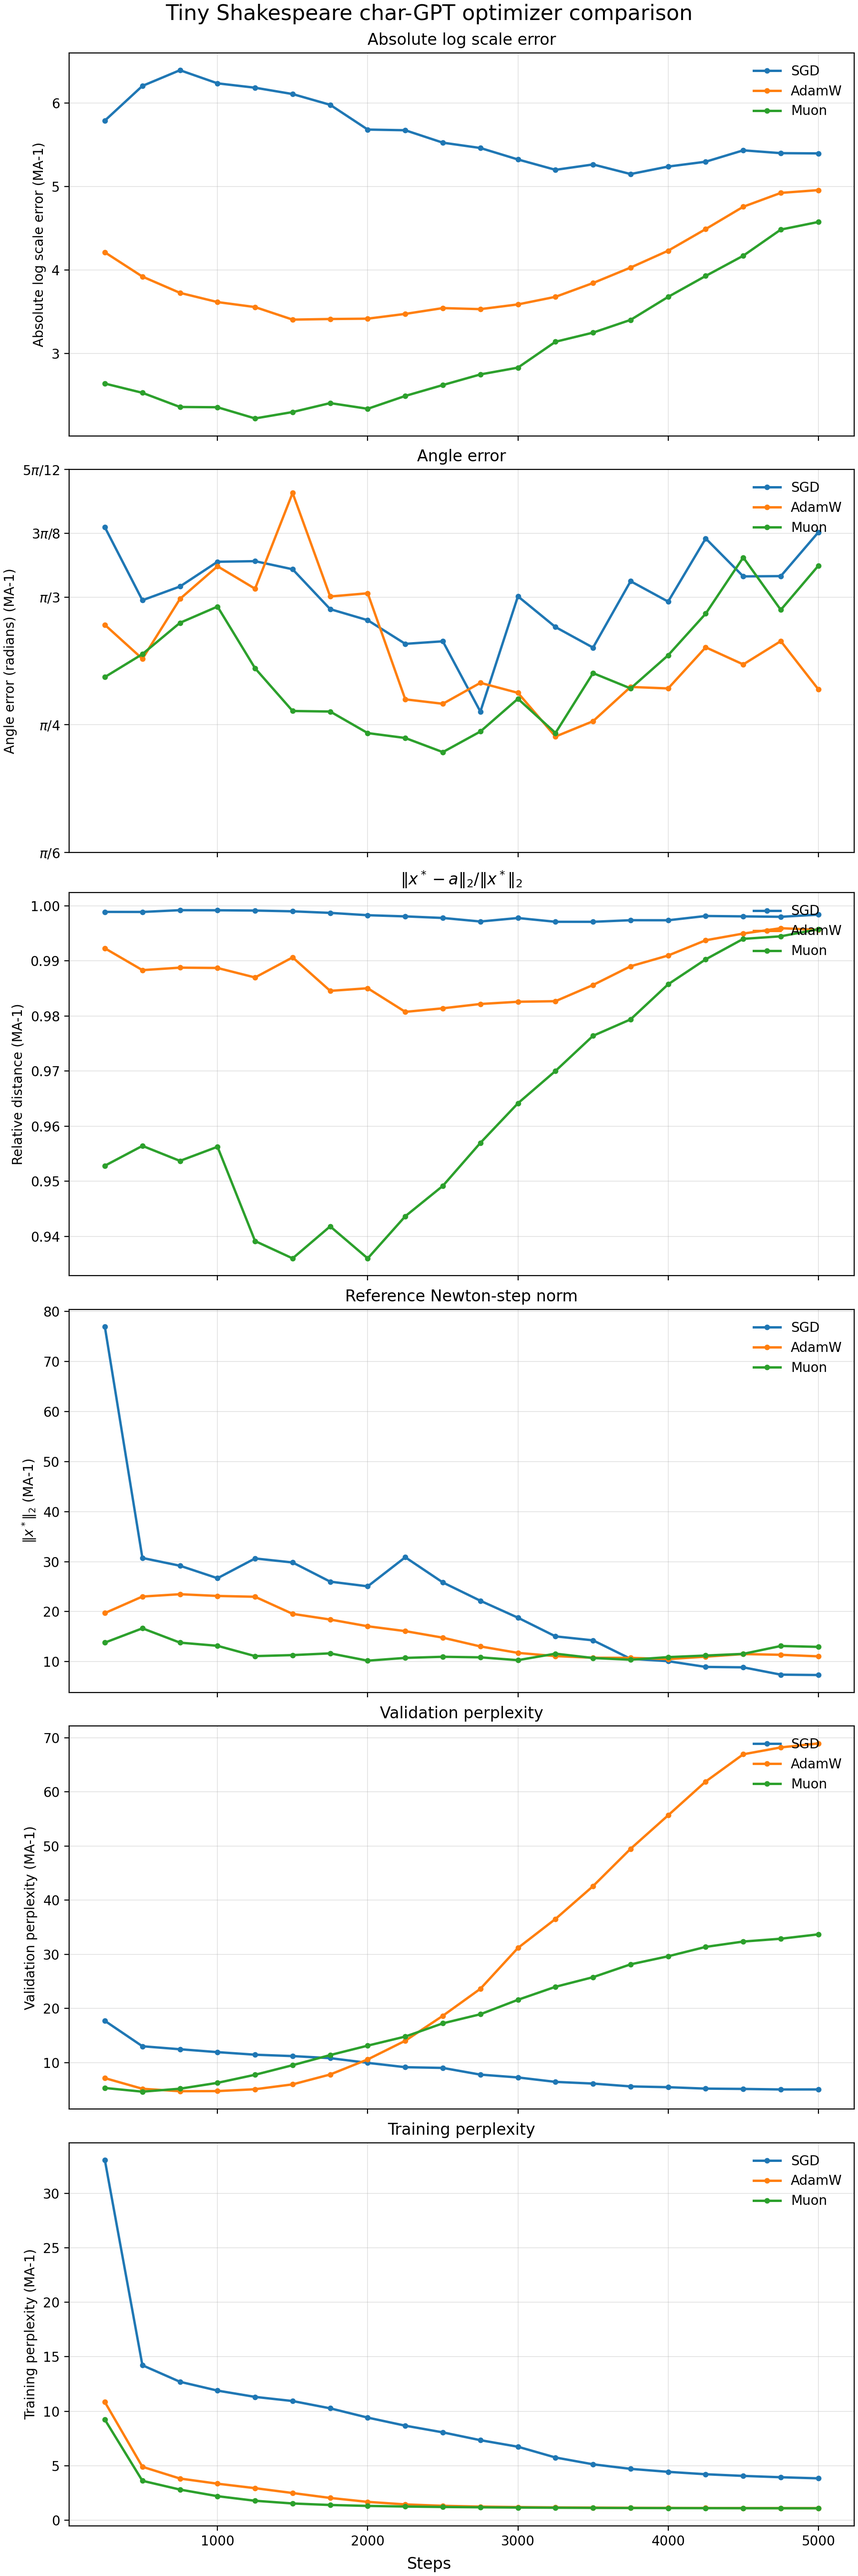
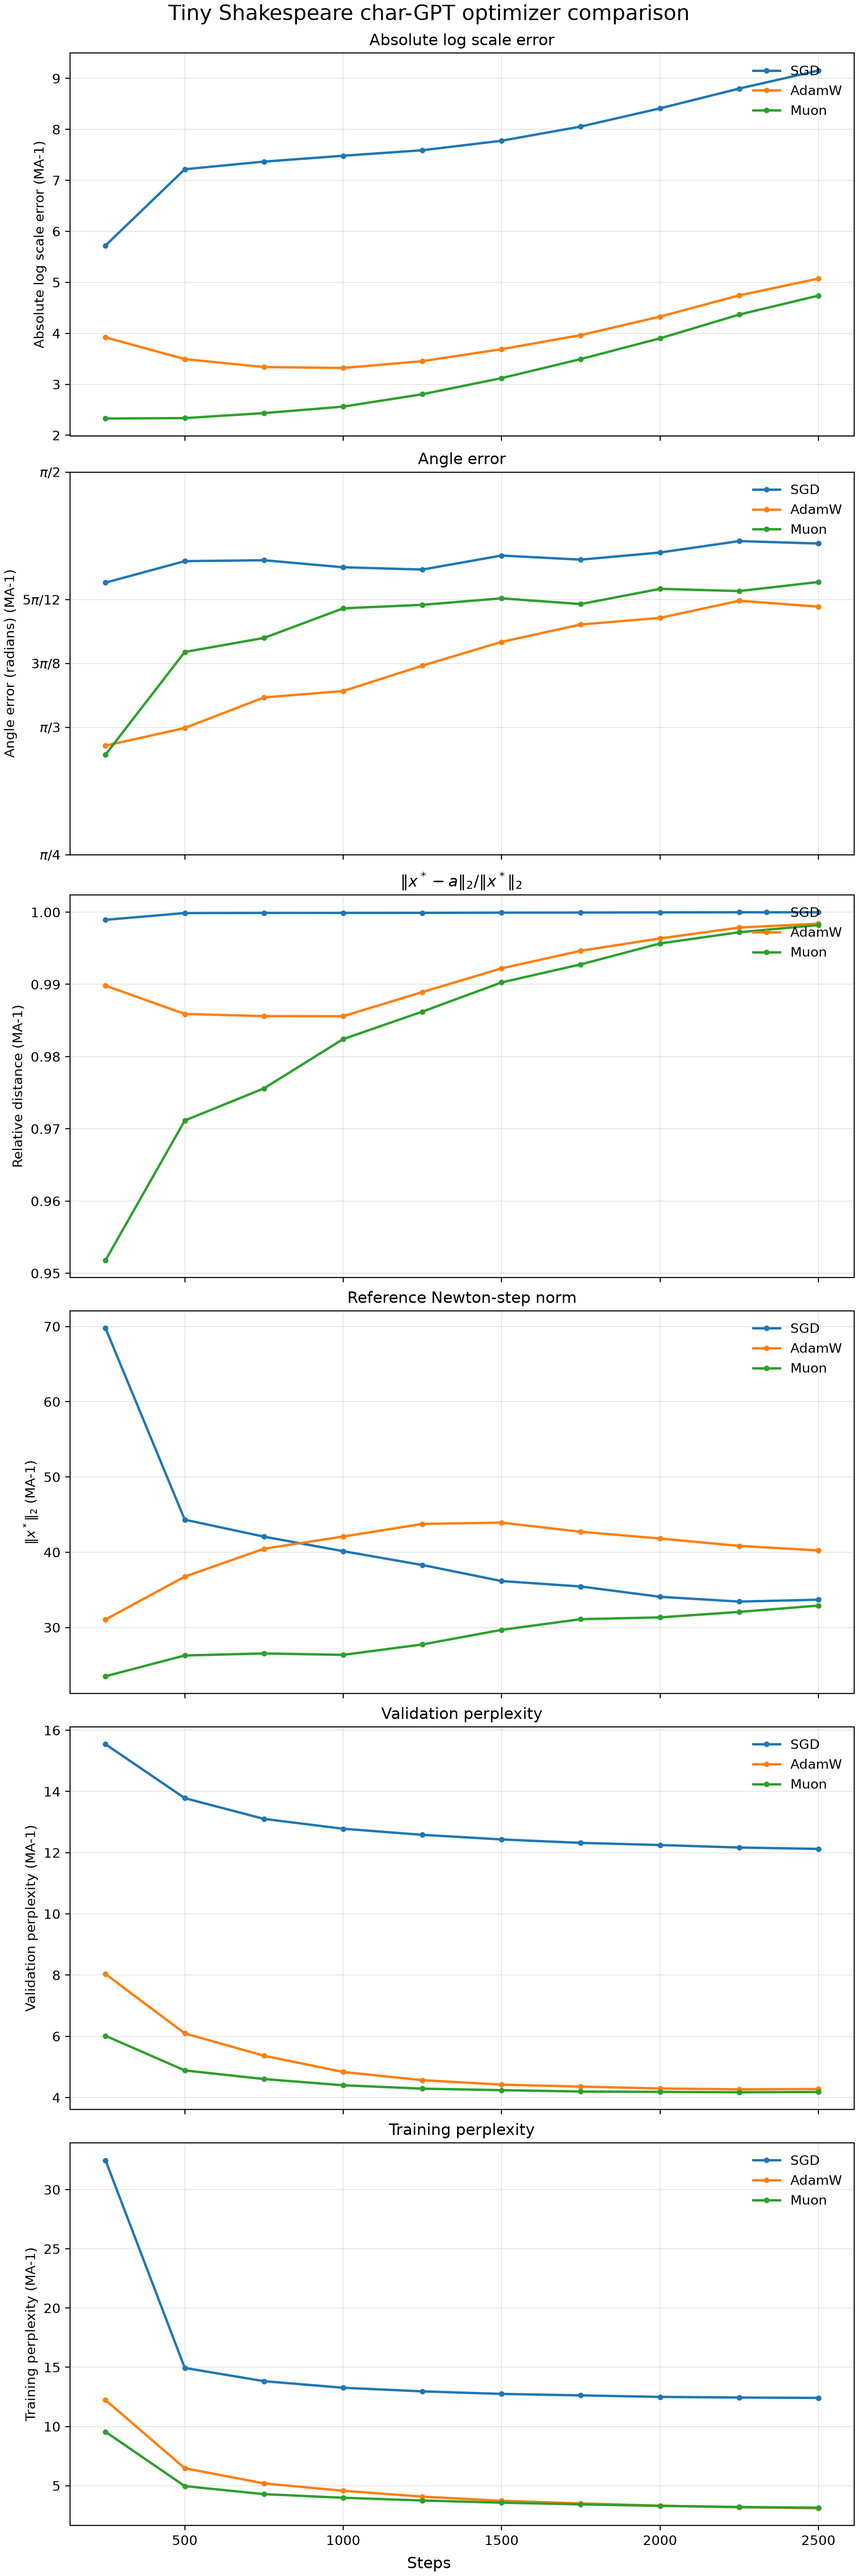
Replace Shakespeare comparison with regularized run

diff --git a/index.html b/index.html
@@ -148,30 +148,6 @@
             <article class="job-column">
               <header class="job-header">
                 <div>
-                  <p>Char-GPT · Tiny Shakespeare</p>
-                  <h3>Optimizer comparison</h3>
-                  <span>SGD · AdamW · Muon · perplexity</span>
-                </div>
-                <button
-                  class="expand-button"
-                  type="button"
-                  data-image="assets/plots/shakespeare-optimizer-comparison.png"
-                  data-title="Tiny Shakespeare optimizer comparison"
-                  title="Open full-resolution plot"
-                  aria-label="Open Tiny Shakespeare optimizer comparison plot"
-                >↗</button>
-              </header>
-              <img
-                class="plot-image"
-                src="assets/plots/shakespeare-optimizer-comparison.png"
-                alt="Six-row Tiny Shakespeare char-GPT optimizer comparison with validation and training perplexity"
-                loading="lazy"
-              >
-            </article>
-
-            <article class="job-column">
-              <header class="job-header">
-                <div>
                   <p>ResNet-44 · CIFAR-10</p>
                   <h3>Optimizer comparison</h3>
                   <span>SGD · AdamW · Muon</span>
@@ -189,6 +165,30 @@
                 class="plot-image"
                 src="assets/plots/resnet44-optimizer-comparison.png"
                 alt="Six-row ResNet-44 optimizer comparison for SGD, AdamW, and Muon"
+                loading="lazy"
+              >
+            </article>
+
+            <article class="job-column">
+              <header class="job-header">
+                <div>
+                  <p>Char-GPT · Tiny Shakespeare</p>
+                  <h3>Optimizer comparison</h3>
+                  <span>SGD · AdamW · Muon · perplexity</span>
+                </div>
+                <button
+                  class="expand-button"
+                  type="button"
+                  data-image="assets/plots/shakespeare-optimizer-comparison.png"
+                  data-title="Tiny Shakespeare optimizer comparison"
+                  title="Open full-resolution plot"
+                  aria-label="Open Tiny Shakespeare optimizer comparison plot"
+                >↗</button>
+              </header>
+              <img
+                class="plot-image"
+                src="assets/plots/shakespeare-optimizer-comparison.png"
+                alt="Six-row Tiny Shakespeare char-GPT optimizer comparison with validation and training perplexity"
                 loading="lazy"
               >
             </article>
@@ -270,8 +270,8 @@
     </main>
 
     <footer>
-      <span>NE · m=20 · interval=20 · 200 dpi</span>
-      <span>Last dashboard update: 31 July 2026</span>
+      <span>NE measurements · 200 dpi</span>
+      <span>Last dashboard update: 1 August 2026</span>
     </footer>
 
     <dialog id="plot-dialog">
